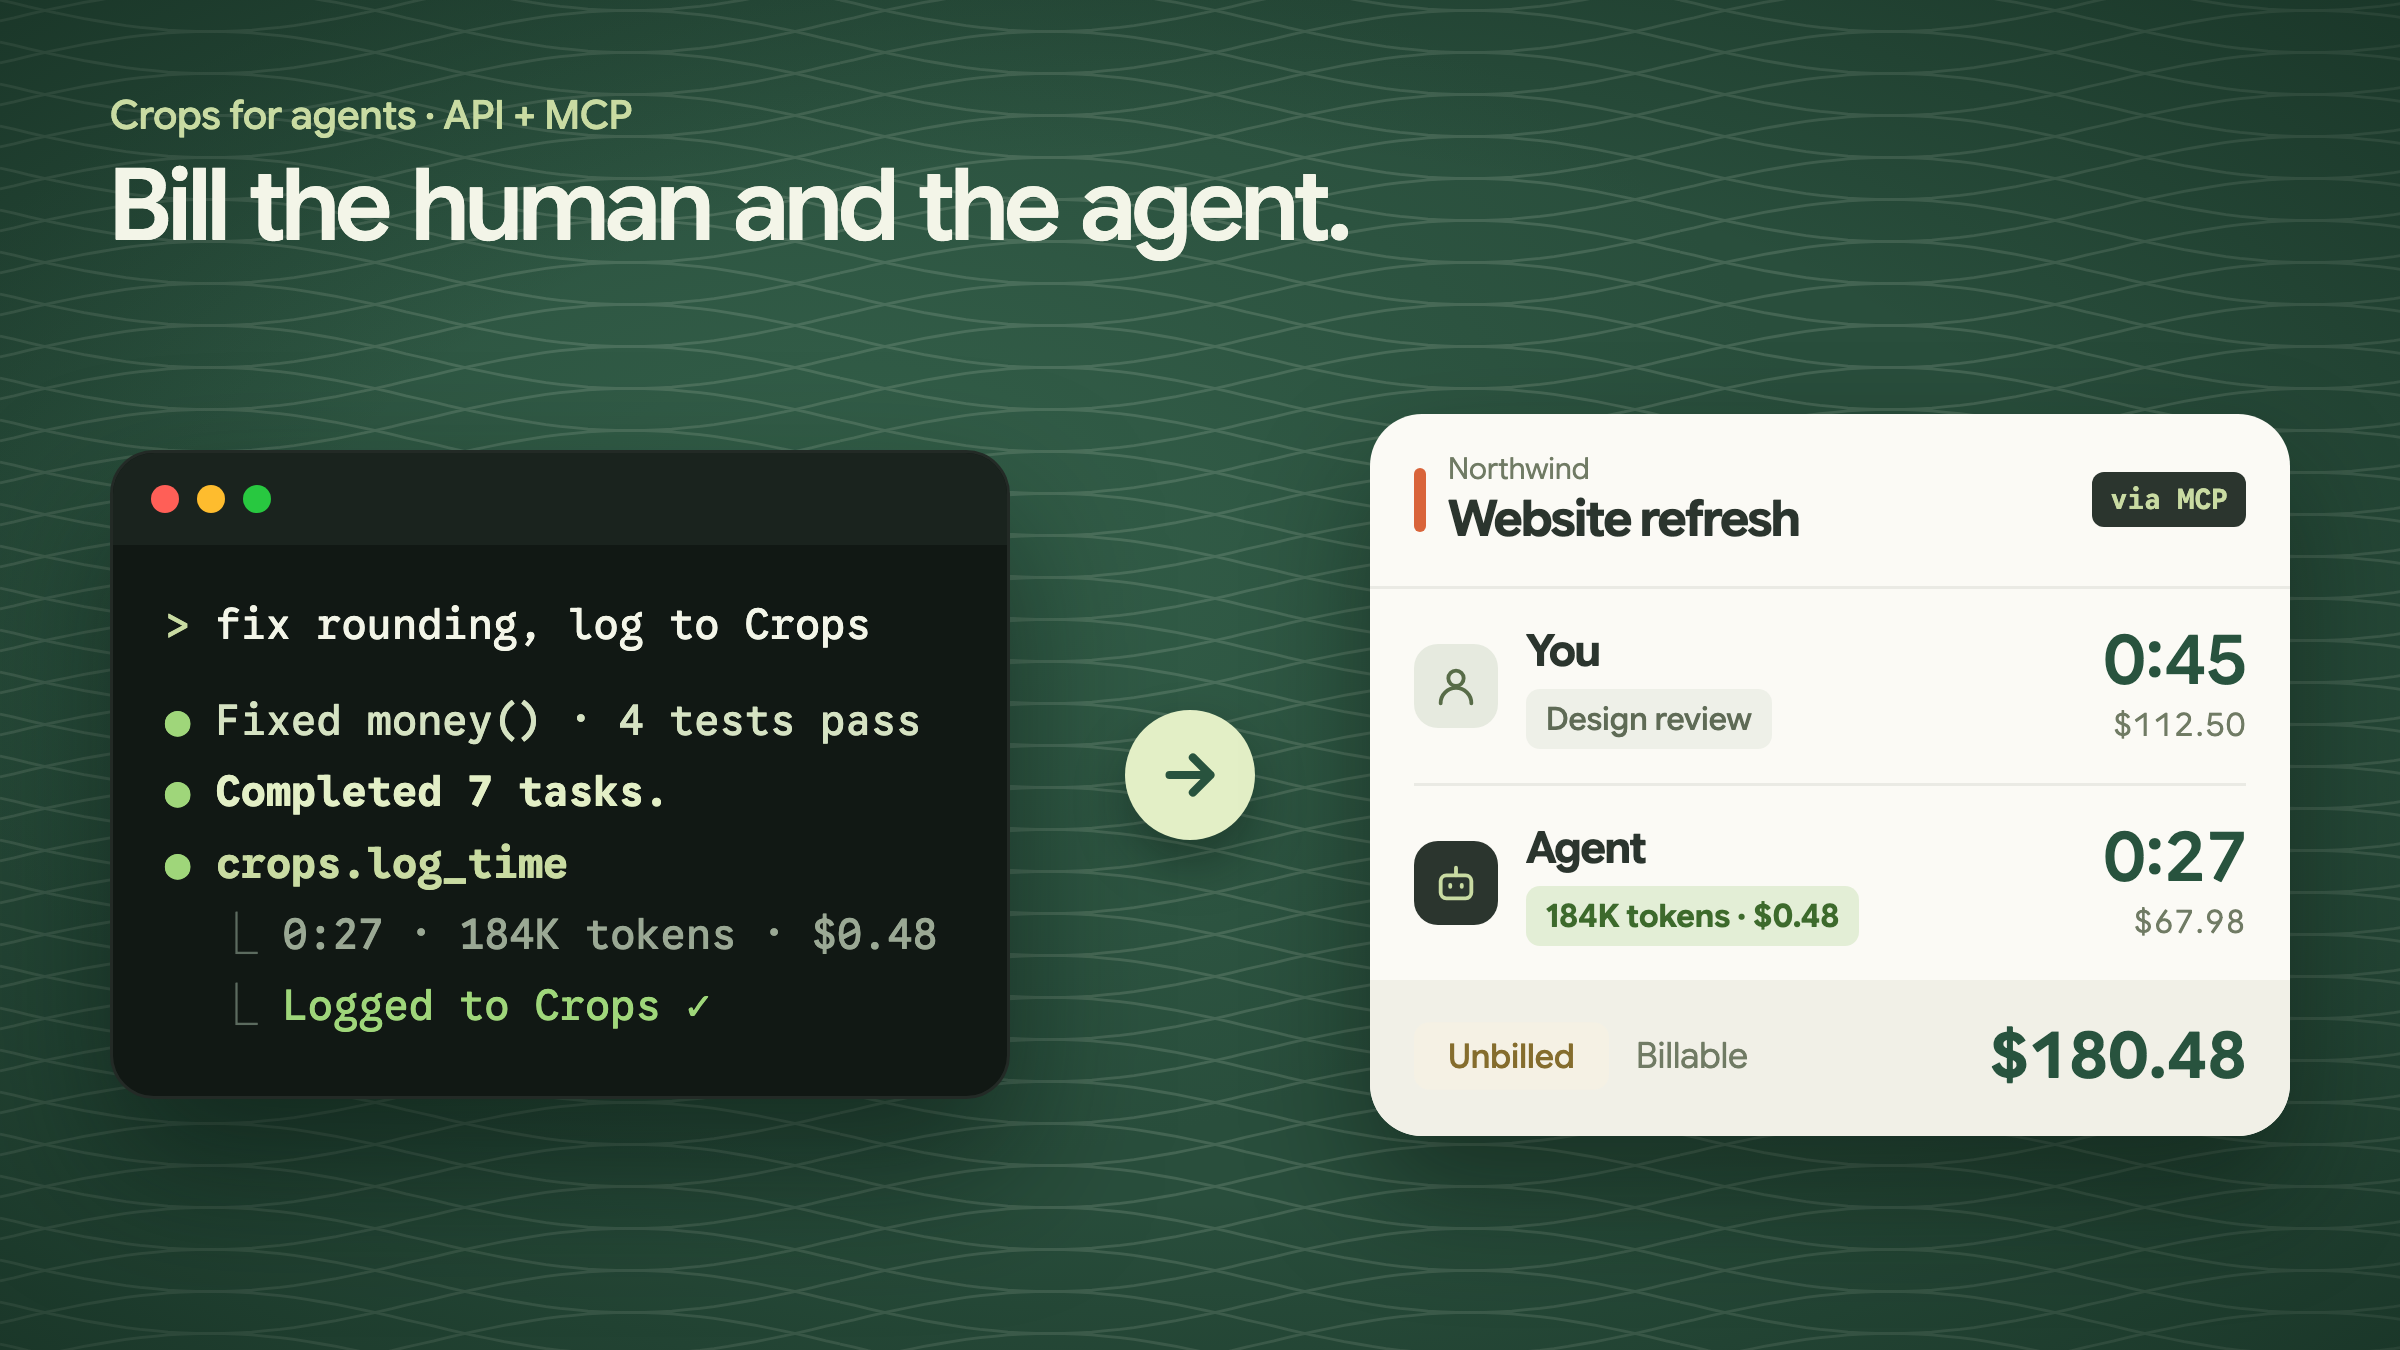
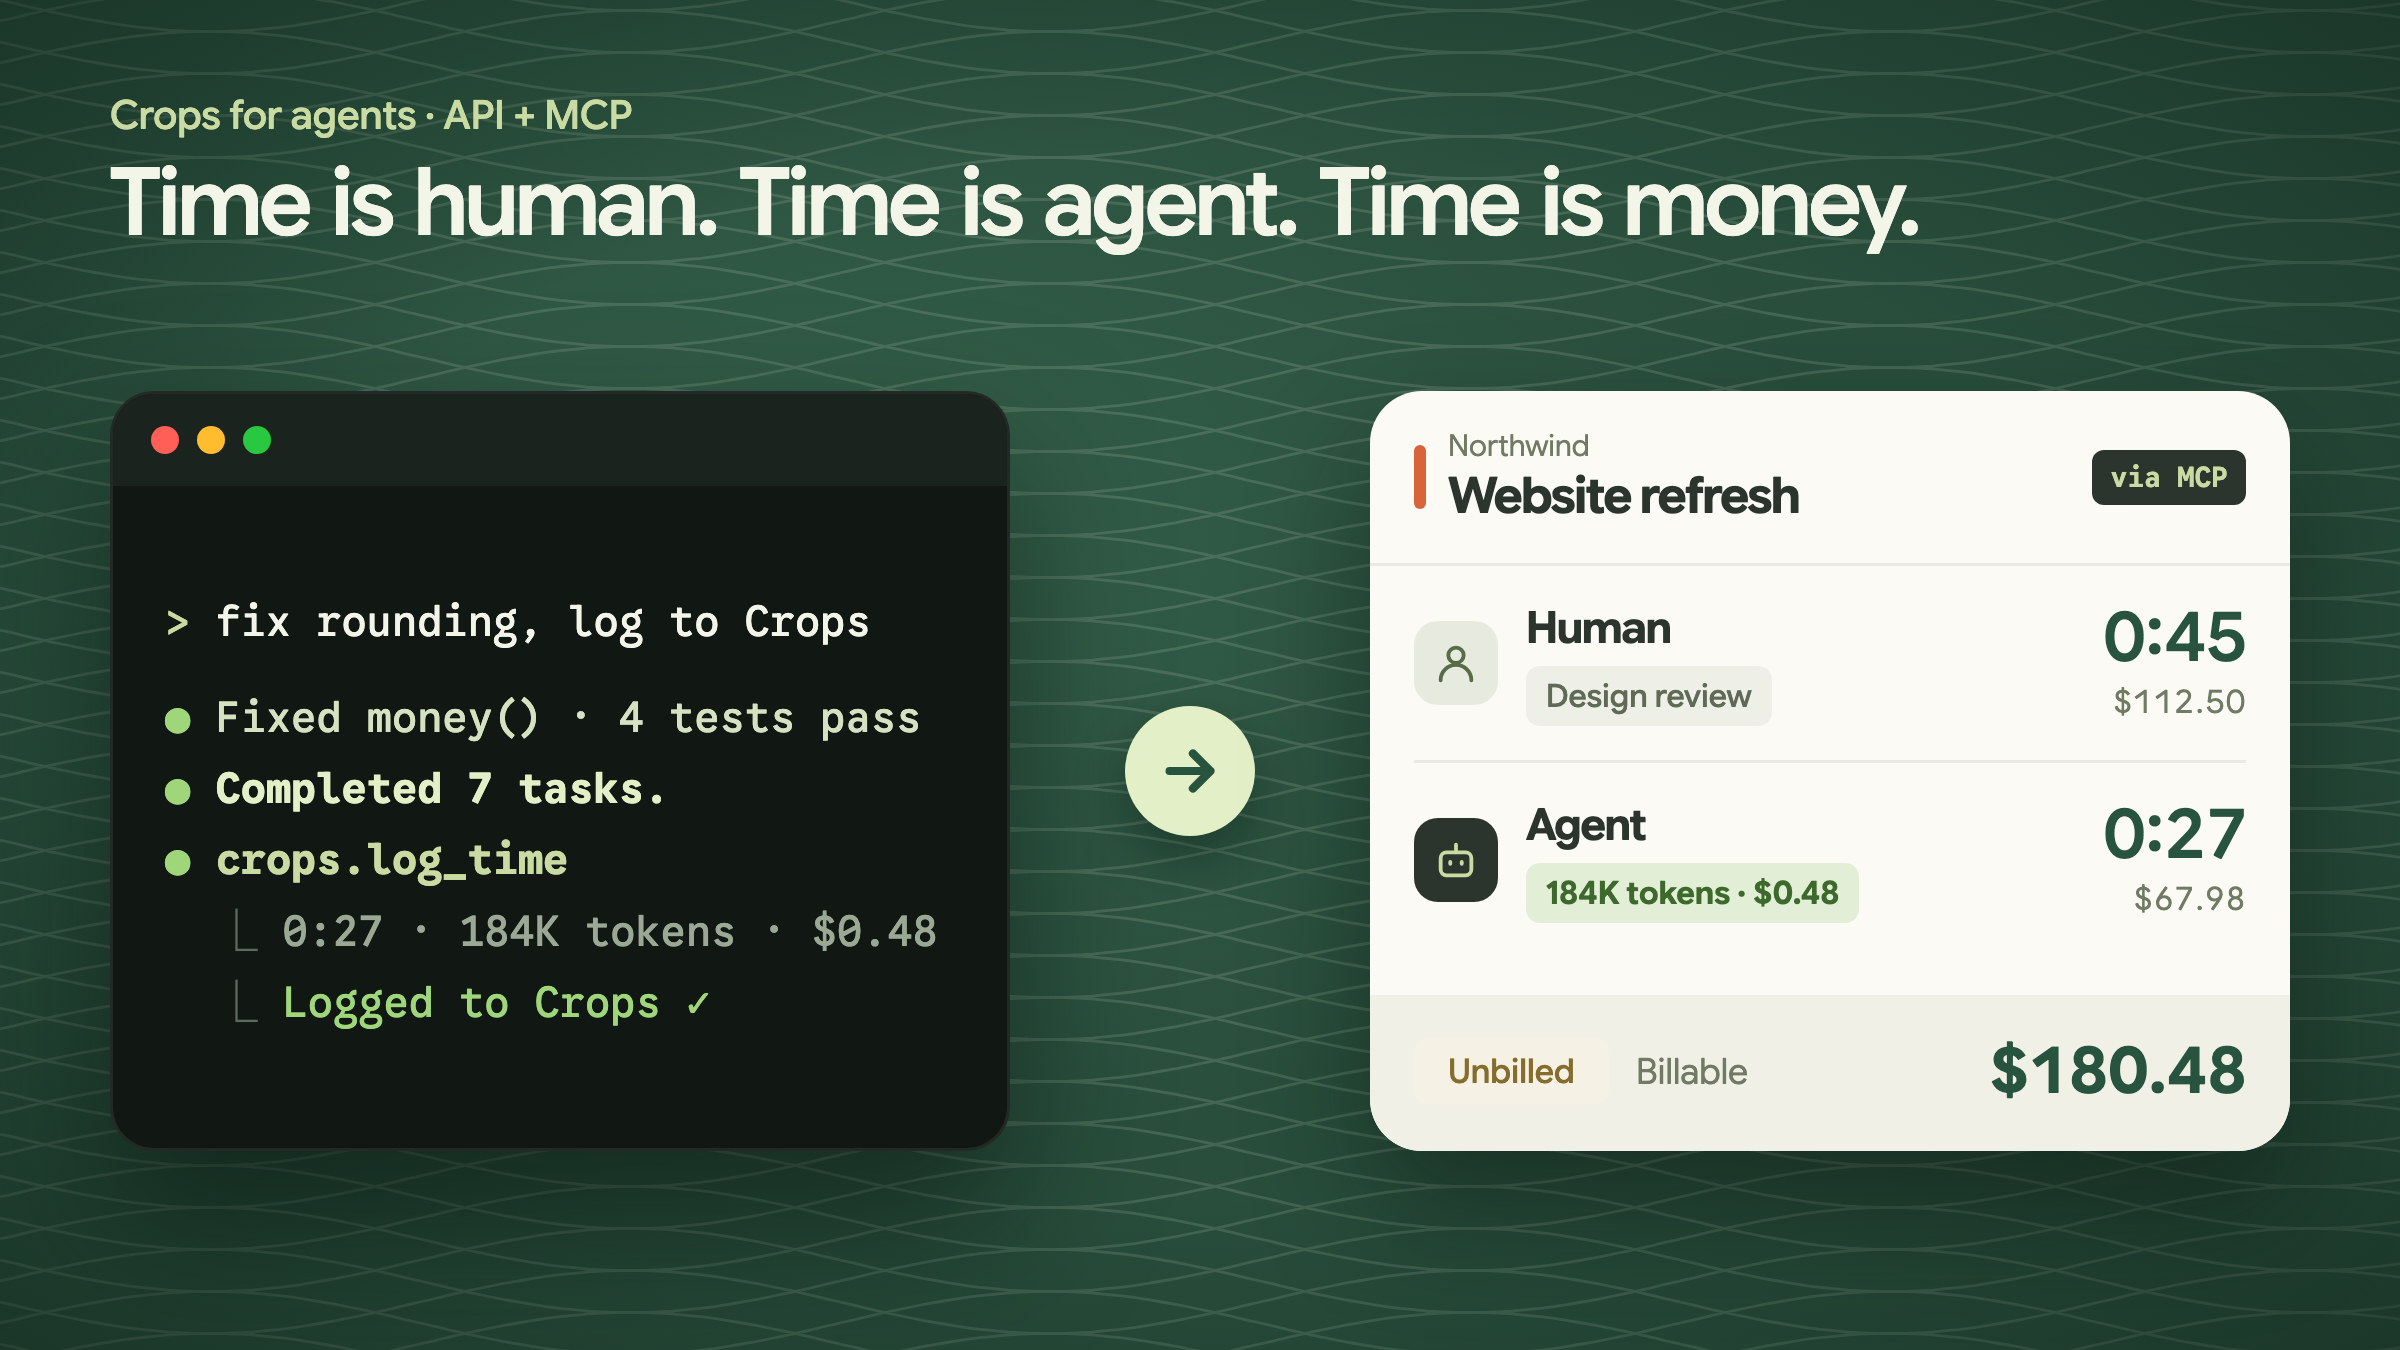
Match agent share card heights and update its headline

diff --git a/video/src/stills.tsx b/video/src/stills.tsx
@@ -171,6 +171,7 @@ function Footnote({ children, style }: { children: ReactNode; style?: CSSPropert
 }
 
 const RATE = 150;
+const CARD_HEIGHT = 760;
 const HUMAN_MINUTES = 45;
 const AGENT_MINUTES = 27;
 const AGENT_TOKENS = "184K";
@@ -198,6 +199,9 @@ function Terminal() {
     <div
       style={{
         width: 900,
+        height: CARD_HEIGHT,
+        display: "flex",
+        flexDirection: "column",
         borderRadius: 44,
         background: "#111814",
         border: "3px solid rgba(255,255,255,0.08)",
@@ -211,7 +215,7 @@ function Terminal() {
           <span key={c} style={{ width: 28, height: 28, borderRadius: "50%", background: c }} />
         ))}
       </div>
-      <div style={{ padding: "44px 52px 54px", fontSize: 42, lineHeight: 1.7, whiteSpace: "pre" }}>
+      <div style={{ flex: 1, display: "flex", flexDirection: "column", justifyContent: "center", padding: "0 52px 10px", fontSize: 42, lineHeight: 1.7, whiteSpace: "pre" }}>
         {TERMINAL.map(([lead, text, kind], i) => (
           <div key={i} style={{ marginTop: i === 1 ? 24 : 0 }}>
             <span style={{ color: kind === "prompt" ? COLORS.lime : kind === "dim" || kind === "logged" ? "#5c6b5f" : "#9fd67a" }}>
@@ -265,7 +269,7 @@ function EntryRow({ agent = false }: { agent?: boolean }) {
     <div style={{ display: "flex", alignItems: "center", gap: 28, padding: "34px 44px" }}>
       <PersonIcon agent={agent} />
       <div style={{ flex: 1, minWidth: 0 }}>
-        <div style={{ fontSize: 44, fontWeight: 650, letterSpacing: "-0.03em" }}>{agent ? "Agent" : "You"}</div>
+        <div style={{ fontSize: 44, fontWeight: 650, letterSpacing: "-0.03em" }}>{agent ? "Agent" : "Human"}</div>
         <div style={{ marginTop: 10 }}>
           {agent ? (
             <Tag strong>{`${AGENT_TOKENS} tokens · $${AGENT_COST.toFixed(2)}`}</Tag>
@@ -290,6 +294,9 @@ function CropsEntry() {
     <div
       style={{
         width: 920,
+        height: CARD_HEIGHT,
+        display: "flex",
+        flexDirection: "column",
         borderRadius: 52,
         background: "#fbfaf5",
         color: COLORS.ink,
@@ -311,7 +318,7 @@ function CropsEntry() {
       <EntryRow />
       <div style={{ height: 3, background: "rgba(39,53,40,0.08)", margin: "0 44px" }} />
       <EntryRow agent />
-      <div style={{ display: "flex", alignItems: "center", gap: 22, padding: "36px 44px 40px", background: "#f1f0e7" }}>
+      <div style={{ marginTop: "auto", display: "flex", alignItems: "center", gap: 22, padding: "36px 44px 40px", background: "#f1f0e7" }}>
         <span style={{ transform: "scale(1.3)", transformOrigin: "left center", marginRight: 50 }}>
           <Status status="unbilled" />
         </span>
@@ -348,8 +355,8 @@ export function ShareAgents() {
     <Green style={{ width: SHARE.width, height: SHARE.height, fontFamily: FONT }}>
       <AbsoluteFill style={{ padding: "90px 110px", color: "#f3f5e8" }}>
         <div style={{ fontSize: 40, color: COLORS.lime, fontWeight: 500 }}>Crops for agents · API + MCP</div>
-        <div style={{ fontSize: 100, fontWeight: 560, letterSpacing: "-0.025em", wordSpacing: "0.06em", marginTop: 14, lineHeight: 1.05 }}>
-          Bill the human and the agent.
+        <div style={{ fontSize: 94, fontWeight: 560, letterSpacing: "-0.025em", wordSpacing: "0.06em", marginTop: 14, whiteSpace: "nowrap", lineHeight: 1.05 }}>
+          Time is human. Time is agent. Time is money.
         </div>
         <div style={{ flex: 1, display: "flex", alignItems: "center", justifyContent: "space-between", marginTop: 30 }}>
           <Terminal />
